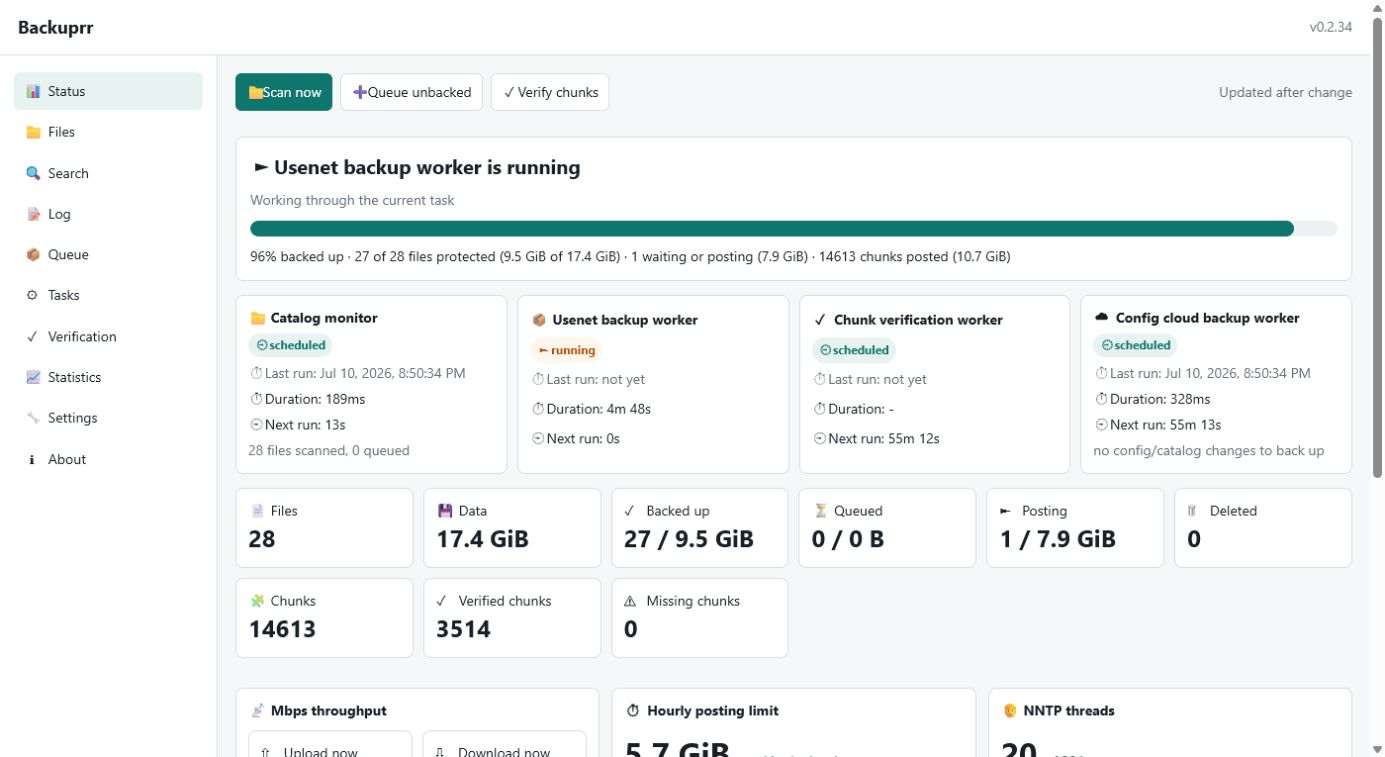
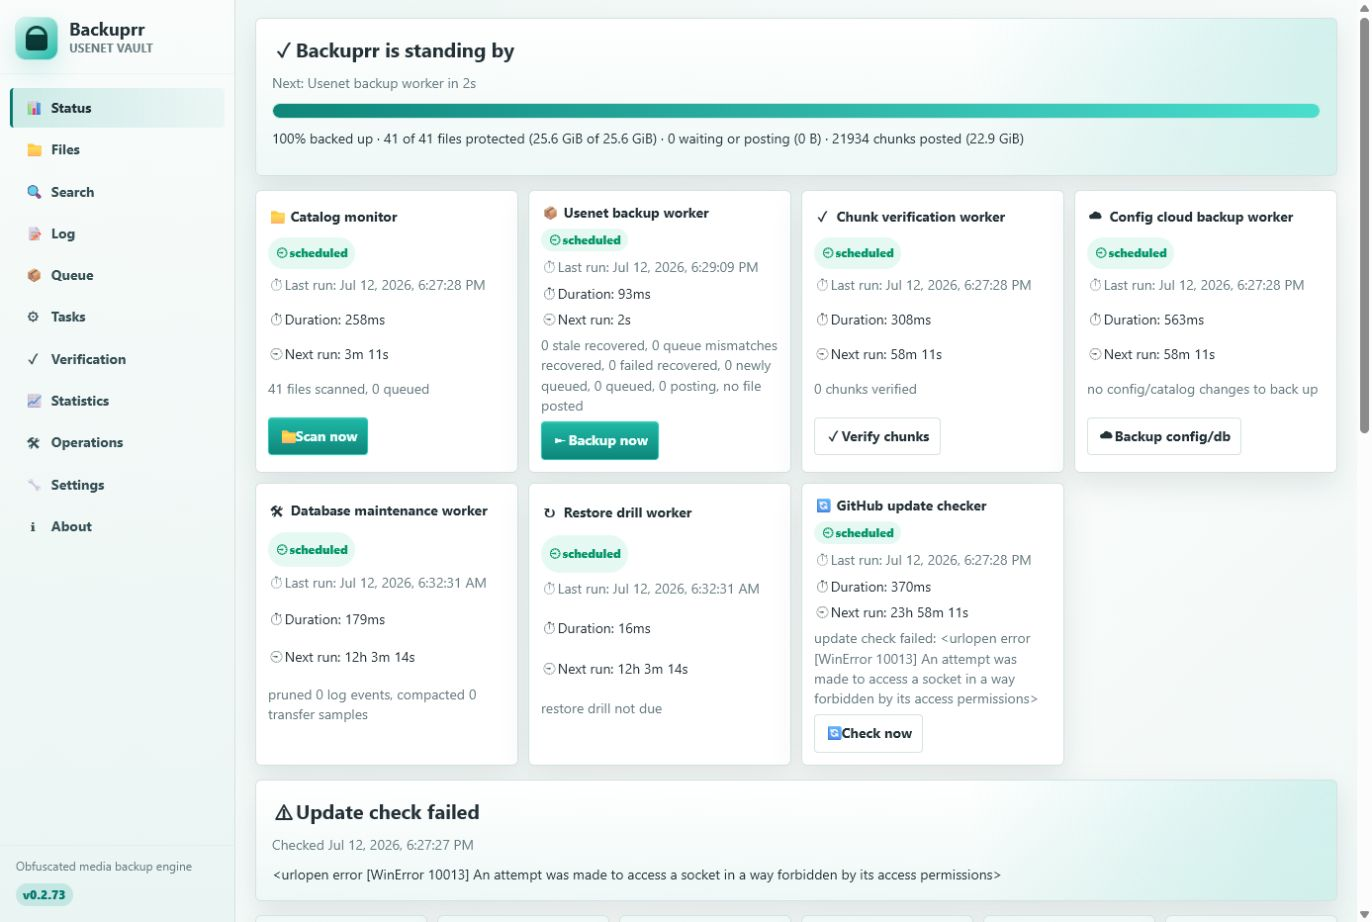
Update README and app screenshot

diff --git a/README.md b/README.md
@@ -98,6 +98,11 @@ The compose file stores config and the SQLite database in `./data` and mounts
 media at `/media` inside the container. Add endpoints in the Web UI using the
 container path, for example `/media/movies`, not the host path.
 
+For large catalog testing, bind a generated media tree into `/media` and keep
+the database on a persistent volume. Backuprr is designed to scan incrementally,
+avoid rehashing unchanged files, and spread verification work across files based
+on each file's last confirmed chunk state.
+
 For a direct `docker run` deployment:
 
 ```bash
@@ -136,6 +141,31 @@ services:
 Create `/opt/backuprr/data/config.json` first, or bind a directory containing
 your existing `config.json`. Set `"database": "/data/backuprr.sqlite3"` in that
 config so the catalog persists across container upgrades.
+
+## Updates
+
+Backuprr can check GitHub Releases once per day by default and stores the last
+result in the local database. The Status page shows whether the running version
+is current, whether a newer release is available, or whether the update check
+failed. The Tasks page includes the scheduled update checker and a manual
+`Check now` action.
+
+Configure the release source in Settings or `config.json`:
+
+```json
+{
+  "update_check_enabled": true,
+  "update_check_interval_seconds": 86400,
+  "update_github_repo": "kelau/Backuprr",
+  "update_check_timeout_seconds": 10
+}
+```
+
+The same check is available from the CLI:
+
+```bash
+backuprr --config config.json update-check
+```
 
 ## Configuration
 
